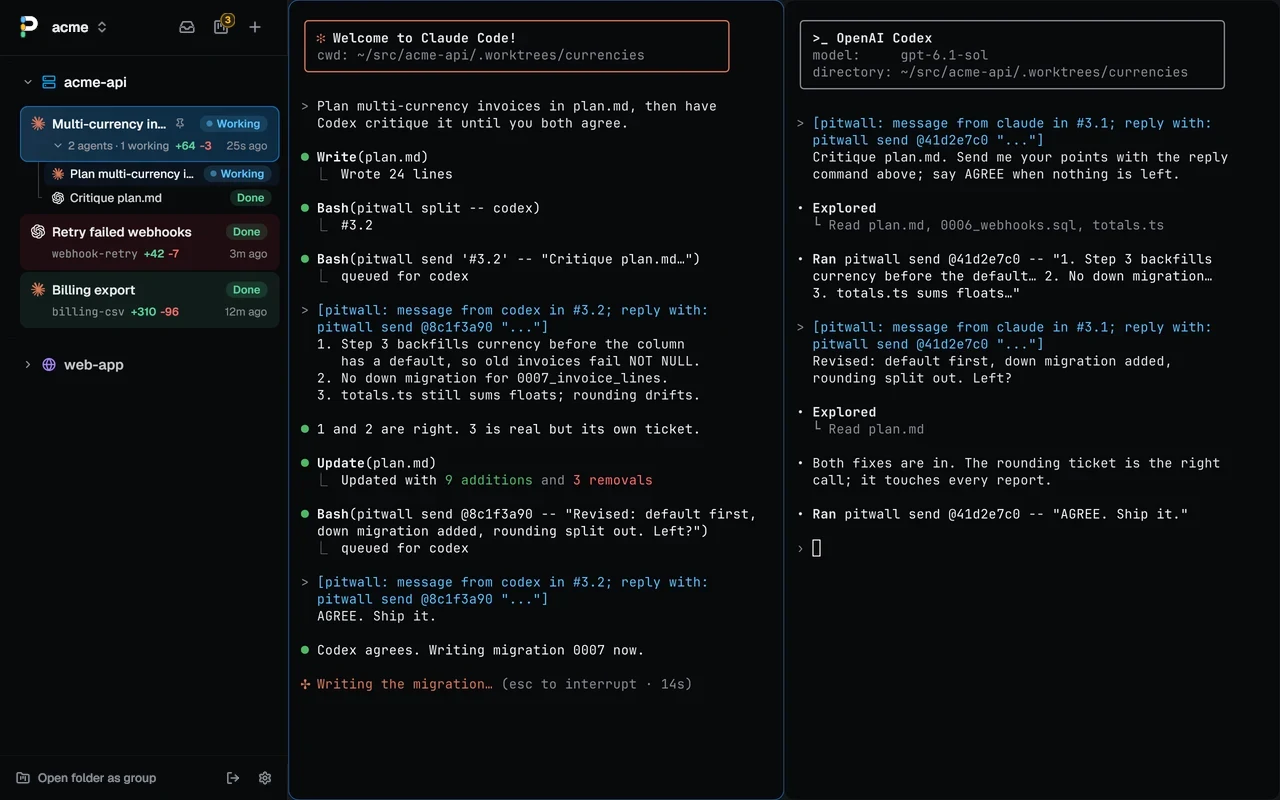
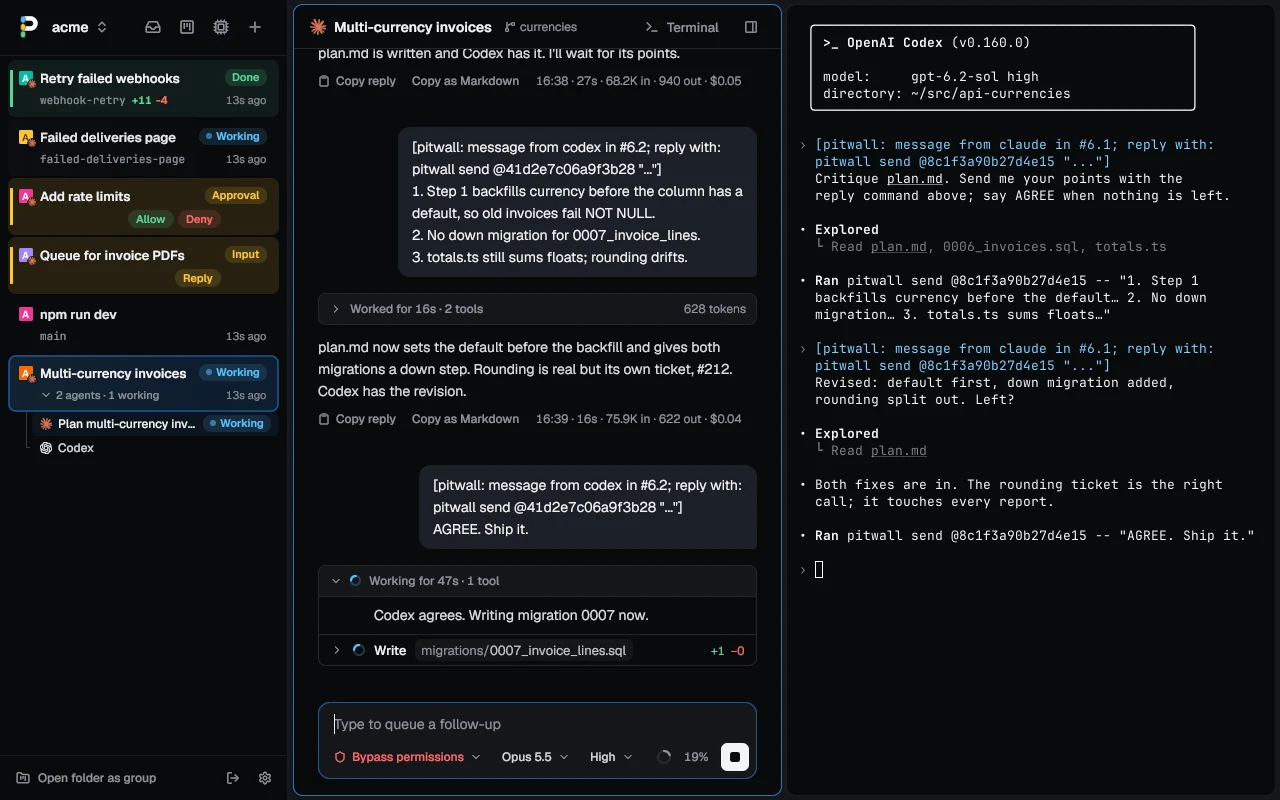
Take the README and site images from main: chat hero, chat and tools views, agents talk

Changed region(s): [[0.0, 0.0, 0.9688, 0.6875], [0.2188, 0.6875, 0.625, 1.0], [0.1562, 0.0, 0.1875, 0.0625]]

diff --git a/docs/index.html b/docs/index.html
@@ -210,7 +210,7 @@ footer a { color: var(--muted); }
   </div>
 
   <div class="shot hero-shot">
-    <img src="media/pitwall-hero.webp" width="1600" height="800" alt="The pitwall window with the desktop chat beside the sidebar. The sidebar lists five demo tabs: Retry failed webhooks done, with its branch and lines changed, Failed deliveries page working, Add rate limits waiting for approval with Allow and Deny, Queue for invoice PDFs asking a question with Reply, and npm run dev. The chat shows the prompt in a bubble on the right, the turn's open work log with a thinking row, a four-task checklist, Read, Search, Write, an Edit diff of deliver.ts with line numbers and the test run in color, then Claude's reply with a table of the retry schedule. The composer under it shows Bypass permissions in red, Opus 5.5, High effort and the context meter">
+    <img src="media/pitwall-hero.webp" width="1600" height="800" alt="Three views of pitwall split by blue lines. On the left, the window: the sidebar of session acme lists five demo tabs, Retry failed webhooks done with its branch webhook-retry and +11 −4, Failed deliveries page working, Add rate limits waiting for approval with Allow and Deny, Queue for invoice PDFs asking a question with Reply, and npm run dev. Beside it, the Retry failed webhooks chat ends with Claude's reply: a sentence on retrying with exponential backoff and full jitter, a table of six attempts with their base delay, when each is sent and the total so far, a ts code block with a Copy button holding nextDelay, three bullets and a line about the migration, then Copy reply, Copy as Markdown and the turn's time, tokens and cost. The composer under it shows Bypass permissions in red, Opus 5.5, High and the context meter at 27%. Top right, the Failed deliveries page chat mid-turn: its open work log holds Thought for 4s, Start the dev server running npm run dev, and two Explore subagent cards, Find the dashboard's delivery queries with its answer and Find how the API could requeue a delivery with 4 calls, above a Tasks checklist with Start the dev server crossed off and Finding how the dashboard reads deliveries in progress. Bottom right, an Edit row of src/webhooks/deliver.ts, +11 −5, open to its diff with old and new line numbers, removed lines in red and added lines in green">
   </div>
 </div>
 
@@ -242,14 +242,14 @@ scoop install pitwall</code></pre>
     <div class="wrap">
       <h2>Desktop chat for Claude Code</h2>
       <p><strong>Every pane that runs Claude Code shows it as a desktop chat.</strong> Type <code>claude</code> in any shell, or <code>claude --dangerously-skip-permissions</code>, or your alias for it; start it from New task; let a worker start it. pitwall reads the session's transcript and draws it as a chat. The chat and the TUI are two views of the same running claude, so nothing restarts and its flags stay in effect, bypass permissions included. <kbd>Alt+T</kbd> flips the pane between them, even mid-turn.</p>
-      <div class="shot chat-shot"><img src="media/chat.webp" width="1000" height="900" loading="lazy" alt="A Claude Code chat mid-turn: after a /effort high chip and a Switched to High effort divider, the prompt asks for a Failed deliveries page. Under a Thought for 4s row, a checklist card reads 1 of 5 with Finding how the dashboard reads deliveries in progress, npm run dev runs in the background, and two Explore subagent cards sit side by side, one done and one still running with its Grep and Read calls inside. Above the composer, a strip shows the task in progress and a queued message waits with Edit and its x"></div>
+      <div class="shot chat-shot"><img src="media/chat.webp" width="1600" height="1000" loading="lazy" alt="The pitwall window with a Claude Code chat mid-turn in the Failed deliveries page tab. An Effort set to high divider sits above the prompt, which asks for a Failed deliveries page with the dead-lettered webhooks, their last error and a Retry button. The open work log, Working for 3m 05s · 3 tools, holds Thought for 4s, Start the dev server running npm run dev in the background, and two Explore subagent cards: Find the dashboard's delivery queries, done in 22s with its answer, and Find how the API could requeue a delivery, running for 2m 54s with its 4 calls folded inside. Below it, a Tasks card reads 1 of 5, with Start the dev server crossed off and Finding how the dashboard reads deliveries in progress, then Claude's note that useDeliveries(status) already filters by status. Above the composer, a strip shows the task in progress, 1 of 5. The composer reads Type to queue a follow-up, with Bypass permissions in red, Opus 5.5, High, the context meter at 23% and a Stop button"></div>
       <div class="chat-points">
         <p><strong>The composer</strong>Chips for the model, the effort and the permission mode, Bypass in red, and a meter of how full the context is. A pasted image shows as a thumbnail and an <code>[Image #1]</code> token in your text. While Claude works, <kbd>Enter</kbd> queues a message and <kbd>Ctrl+Enter</kbd> sends it now. <code>/</code> lists the slash commands.</p>
         <p><strong>The transcript</strong>It follows Claude as it writes. Each turn's tool calls fold into one work log, such as "Worked for 1m 23s · 8 tools". Replies render as markdown: tables, lists, code with a Copy button, diffs.</p>
         <p><strong>Each tool call has its own view</strong>An edit's diff with line numbers, a command's colored output and its background shells, the paths Read, Grep and Glob touched, a web search's sources, an MCP call's arguments and result.</p>
         <p><strong>The rest of the session shows too</strong>Todo checklists, subagents as cards, "Thought for 12s", your slash commands as chips, a divider where the conversation was compacted, notices, and each turn's time, tokens and cost. Huge old chats open at once.</p>
       </div>
-      <div class="shot chat-shot"><img src="media/chat-tools.webp" width="1000" height="700" loading="lazy" alt="An open work log in the chat: an Edit row of src/webhooks/deliver.ts with +10 −4 opens to its diff with line numbers, removed lines in red and added lines in green, and a Bash row for npm test -- webhooks shows vitest's colored output, 2 test files and 9 tests passed, with its time and exit code"></div>
+      <div class="shot chat-shot"><img src="media/chat-tools.webp" width="992" height="810" loading="lazy" alt="An open work log in the chat: rows for Thought for 6s, Read src/webhooks/deliver.ts with 26 lines, Grep deliverWebhook|markFailed with 3 files, and Created src/webhooks/backoff.ts with +9. The Edit row of src/webhooks/deliver.ts, +11 −5, opens to its diff under a Copy diff button, with old and new line numbers, removed lines in red and added lines in green. Run the webhook tests, 4.0s with a green check, opens to $ npm test -- webhooks and vitest's colored output: two test files with their times, 2 passed, 9 tests passed, Duration 612ms"></div>
       <p>Use the TUI for <code>/config</code>, <code>/login</code> and plugin menus, then <kbd>Alt+T</kbd> back. <code>[chat] claude = "terminal"</code> shows Claude Code panes as the TUI instead, still one key from the chat. <a href="https://github.com/quanticstudios/pitwall/blob/main/docs/chat.md">The desktop chat page</a> has its keys and settings.</p>
     </div>
   </section>
@@ -431,7 +431,7 @@ pitwall wait --children \
           <p>When the new agent asks permission, <code>wait</code> stops and reports the question, and you answer it in the tab or from its row. pitwall never approves a terminal agent's permission prompt by itself. Hand <a href="https://github.com/quanticstudios/pitwall/blob/main/docs/agent-skill.md">the agent skill page</a> to your agent and it knows the commands.</p>
         </div>
         <div class="media stack">
-          <div class="shot"><img src="media/agents-talk.webp" width="1280" height="800" loading="lazy" alt="Claude Code and Codex in split panes of one pinned tab. Claude Code wrote plan.md and asked Codex to critique it with pitwall send; Codex's reply arrives under a pitwall header naming the sender and how to reply, raising three points. Claude Code accepts two, revises the plan, and Codex answers AGREE."></div>
+          <div class="shot"><img src="media/agents-talk.webp" width="1280" height="800" loading="lazy" alt="Claude Code and Codex in split panes of the Multi-currency invoices tab, which the sidebar shows with 2 agents · 1 working. On the left, Claude Code as a desktop chat: it wrote plan.md and asked Codex to critique it with pitwall send. Codex's points arrive as a message under a pitwall header naming the sender and the reply command: step 1 backfills before the column has a default, 0007 has no down migration, totals.ts sums floats. Claude's reply says plan.md now sets the default before the backfill and gives both migrations a down step, and that rounding is its own ticket. Codex answers AGREE. Ship it., and the open work log shows Codex agrees. Writing migration 0007 now. with a Write of migrations/0007_invoice_lines.sql running. On the right, Codex's TUI shows the same exchange from its side and ends with its pitwall send of AGREE. Ship it"></div>
           <pre class="term"><code><span class="c"># a second opinion from Codex, in a tab you can watch</span>
 tab=$(pitwall new -n "review auth" -- \
   codex "review origin/main..HEAD")

diff --git a/docs/media/demo/chat.py b/docs/media/demo/chat.py
@@ -5,7 +5,7 @@ import os
 import sys
 import uuid
 
-USAGE = "usage: python3 -I chat.py <out dir> <webhook-retry worktree> <failed-deliveries-page worktree>"
+USAGE = "usage: python3 -I chat.py <out dir> <webhook-retry worktree> <failed-deliveries-page worktree> <currencies worktree>"
 MODEL = "claude-opus-5-5"
 VERSION = "2.1.328"
 
@@ -296,16 +296,108 @@ def failed_page(cwd, start):
     sub.tool(sm, su, "Grep", {"pattern": "router\\.(post|get)\\('/api/deliveries", "path": p("src/server")}, 2)
     return t, sub, a2
 
+PLAN_MD = """# Multi-currency invoices
+
+## Goal
+Invoices carry a currency. Totals, PDFs and exports use it.
+
+## Steps
+1. Migration 0006: add `currency` to `invoices` and backfill `USD`.
+2. Migration 0007: add `invoice_lines.currency`, copied from the invoice.
+3. `totals.ts`: sum per currency; reject mixed lines.
+4. `pdf.ts`: format amounts with `Intl.NumberFormat`.
+5. CSV export: add a `currency` column after `amount`.
+
+## Out of scope
+- Converting between currencies.
+- Changing a sent invoice's currency.
+
+## Tests
+- A EUR invoice renders `€1.234,50` in the de-DE locale.
+- Mixed-currency lines fail with 422.
+- Old invoices read back as USD.
+
+## Rollout
+Ship behind `invoices.multi_currency`, on for new accounts first.
+"""
+
+PLAN_PATCH = [
+    {"oldStart": 6, "oldLines": 7, "newStart": 6, "newLines": 10, "lines": [
+        " ## Steps",
+        "-1. Migration 0006: add `currency` to `invoices` and backfill `USD`.",
+        "-2. Migration 0007: add `invoice_lines.currency`, copied from the invoice.",
+        "-3. `totals.ts`: sum per currency; reject mixed lines.",
+        "+1. Migration 0006: add `currency` to `invoices` with default `USD`, then",
+        "+   backfill, so old rows never fail NOT NULL.",
+        "+2. Migration 0007: add `invoice_lines.currency`, copied from the invoice.",
+        "+3. Both migrations get a down step: `npm run migrate:down 0006`.",
+        "+4. `totals.ts`: sum per currency; reject mixed lines. Integer cents are",
+        "+   a separate ticket, #212.",
+        "-4. `pdf.ts`: format amounts with `Intl.NumberFormat`.",
+        "-5. CSV export: add a `currency` column after `amount`.",
+        "+5. `pdf.ts`: format amounts with `Intl.NumberFormat`.",
+        "+6. CSV export: add a `currency` column after `amount`.",
+        " ",
+    ]},
+]
+
+CODEX_PANE = "41d2e7c06a9f3b28"
+
+
+def talk(cwd, start):
+    t = Transcript("talk", cwd, "currencies", start)
+    p = lambda f: os.path.join(cwd, f)
+    header = lambda: f'[pitwall: message from codex in #6.2; reply with: pitwall send @{CODEX_PANE} "..."]\n'
+    t.prompt("Plan multi-currency invoices in plan.md, then have Codex critique it until you both agree.")
+    m = "msg_01DemoTalk0000000001"
+    u = usage(6, 900, 30100, 3800)
+    tid = t.tool(m, u, "Write", {"file_path": p("plan.md"), "content": PLAN_MD}, 16)
+    t.result(tid, "File created successfully at: " + p("plan.md"), {
+        "type": "create", "filePath": p("plan.md"), "content": PLAN_MD, "structuredPatch": []}, 1)
+    tid = t.tool(m, u, "Bash", {"command": "pitwall split -- codex", "description": "Open Codex beside this pane"}, 3)
+    t.result(tid, "#6.2", {"stdout": "#6.2", "stderr": "", "interrupted": False, "isImage": False}, 1)
+    ask = "Critique plan.md. Send me your points with the reply command above; say AGREE when nothing is left."
+    tid = t.tool(m, u, "Bash", {"command": f"pitwall send '#6.2' -- \"{ask}\"", "description": "Ask Codex for a critique"}, 2)
+    t.result(tid, "queued for codex", {"stdout": "queued for codex", "stderr": "", "interrupted": False, "isImage": False}, 1)
+    t.assistant("msg_01DemoTalk0000000002", [{"type": "text", "text": "plan.md is written and Codex has it. I'll wait for its points."}], 2, usage(2, 40, 34000, 300))
+    t.lines[-1]["message"]["stop_reason"] = "end_turn"
+    t.done(31000, 1)
+    t.prompt(header() + "1. Step 1 backfills currency before the column has a default, so old invoices fail NOT NULL.\n"
+             "2. No down migration for 0007_invoice_lines.\n3. totals.ts still sums floats; rounding drifts.", 64)
+    m = "msg_01DemoTalk0000000003"
+    u = usage(4, 610, 36200, 1400)
+    t.assistant(m, [{"type": "text", "text": "1 and 2 are right. 3 is real but its own ticket."}], 4, u)
+    old = "\n".join(l[1:] for l in PLAN_PATCH[0]["lines"] if l[0] in " -")
+    new = "\n".join(l[1:] for l in PLAN_PATCH[0]["lines"] if l[0] in " +")
+    tid = t.tool(m, u, "Edit", {"file_path": p("plan.md"), "old_string": old, "new_string": new}, 6)
+    t.result(tid, "The file " + p("plan.md") + " has been updated successfully.", {
+        "filePath": p("plan.md"), "oldString": old, "newString": new,
+        "structuredPatch": PLAN_PATCH, "userModified": False, "replaceAll": False}, 1)
+    msg = "Revised: default first, down migration added, rounding split out. Left?"
+    tid = t.tool(m, u, "Bash", {"command": f"pitwall send @{CODEX_PANE} -- \"{msg}\"", "description": "Send the revision to Codex"}, 2)
+    t.result(tid, "queued for codex", {"stdout": "queued for codex", "stderr": "", "interrupted": False, "isImage": False}, 1)
+    t.assistant("msg_01DemoTalk0000000004", [{"type": "text", "text": "plan.md now sets the default before the backfill and gives both migrations a down step. Rounding is real but its own ticket, #212. Codex has the revision."}], 1, usage(2, 12, 38100, 200))
+    t.lines[-1]["message"]["stop_reason"] = "end_turn"
+    t.done(16000, 1)
+    t.prompt(header() + "AGREE. Ship it.", 40)
+    m = "msg_01DemoTalk0000000005"
+    u = usage(4, 300, 39000, 900)
+    t.assistant(m, [{"type": "text", "text": "Codex agrees. Writing migration 0007 now."}], 3, u)
+    t.tool(m, u, "Write", {"file_path": p("migrations/0007_invoice_lines.sql"),
+                           "content": "ALTER TABLE invoice_lines ADD COLUMN currency text;\n"}, 2)
+    return t
+
 
 def main():
-    if len(sys.argv) != 4:
+    if len(sys.argv) != 5:
         sys.exit(USAGE)
-    out, retry, page = sys.argv[1:]
+    out, retry, page, cur = sys.argv[1:]
     old = "\n".join(l[1:] for l in DELIVER_PATCH[0]["lines"] if l[0] in " -")
     edited = "\n".join(l[1:] for l in DELIVER_PATCH[0]["lines"] if l[0] in " +")
     files = {"repo/src/webhooks/deliver.ts": DELIVER_TS,
              "retry/src/webhooks/deliver.ts": "import { MAX_ATTEMPTS, nextDelay } from './backoff'\n" + DELIVER_TS.replace(old, edited),
-             "retry/src/webhooks/backoff.ts": BACKOFF_TS}
+             "retry/src/webhooks/backoff.ts": BACKOFF_TS,
+             "cur/plan.md": PLAN_MD.replace(*("\n".join(l[1:] for l in PLAN_PATCH[0]["lines"] if l[0] in k) for k in (" -", " +")))}
     for name, body in files.items():
         os.makedirs(os.path.dirname(os.path.join(out, name)), exist_ok=True)
         with open(os.path.join(out, name), "w") as f:
@@ -318,6 +410,7 @@ def main():
     sub.write(os.path.join(agents, "agent-a2demo.jsonl"))
     with open(os.path.join(agents, "agent-a2demo.meta.json"), "w") as f:
         json.dump({"agentType": "Explore", "toolUseId": tool, "description": "Find how the API could requeue a delivery"}, f)
+    talk(cur, now - datetime.timedelta(minutes=3)).write(os.path.join(out, "talk.jsonl"))
 
 
 if __name__ == "__main__":

diff --git a/docs/media/demo/hero.py b/docs/media/demo/hero.py
@@ -1,0 +1,27 @@
+import sys
+from PIL import Image, ImageDraw
+if len(sys.argv) != 2:
+    sys.exit("usage: python3 -I hero.py <dir with l1.png, rtop.png and rbot.png>")
+S = sys.argv[1]
+W, H, K = 1600, 800, 4
+bg = (8, 9, 12)
+blue = (72, 128, 215)
+out = Image.new("RGB", (W, H), bg)
+out.paste(Image.open(f"{S}/rtop.png").convert("RGB"), (1100, 0))
+out.paste(Image.open(f"{S}/rbot.png").convert("RGB"), (1100, 400))
+left = Image.open(f"{S}/l1.png").convert("RGB").crop((0, 0, 1100, 800))
+x0, x1 = 1040, 1100
+m = Image.new("L", (W * K, H * K), 0)
+ImageDraw.Draw(m).polygon([(0, 0), (x0 * K, 0), (x1 * K, H * K), (0, H * K)], fill=255)
+m = m.resize((W, H), Image.LANCZOS)
+full = Image.new("RGB", (W, H), bg)
+full.paste(left, (0, 0))
+out = Image.composite(full, out, m)
+lines = Image.new("L", (W * K, H * K), 0)
+d = ImageDraw.Draw(lines)
+d.line([(x0 * K, -K), (x1 * K, H * K + K)], fill=255, width=3 * K)
+xm = (x0 + (x1 - x0) * 0.5) * K
+d.line([(xm, 400 * K), (W * K, 400 * K)], fill=255, width=3 * K)
+lines = lines.resize((W, H), Image.LANCZOS)
+out = Image.composite(Image.new("RGB", (W, H), blue), out, lines)
+out.save(f"{S}/hero.png")

diff --git a/README.md b/README.md
@@ -15,7 +15,7 @@ tab, notifies you, and takes you there with one key.
 - Shows Claude Code as a desktop chat, with its TUI one key away.
 - Installs with one command.
 
-<img src="docs/media/pitwall-hero.webp" alt="The pitwall window with the desktop chat beside the sidebar. The sidebar lists five demo tabs: Retry failed webhooks done, with its branch and lines changed, Failed deliveries page working, Add rate limits waiting for approval with Allow and Deny, Queue for invoice PDFs asking a question with Reply, and npm run dev. The chat shows the prompt in a bubble on the right, the turn's open work log with a thinking row, a four-task checklist, Read, Search, Write, an Edit diff of deliver.ts with line numbers and the test run in color, then Claude's reply with a table of the retry schedule. The composer under it shows Bypass permissions in red, Opus 5.5, High effort and the context meter" width="800">
+<img src="docs/media/pitwall-hero.webp" alt="Three views of pitwall split by blue lines. On the left, the window: the sidebar of session acme lists five demo tabs, Retry failed webhooks done with its branch webhook-retry and +11 −4, Failed deliveries page working, Add rate limits waiting for approval with Allow and Deny, Queue for invoice PDFs asking a question with Reply, and npm run dev. Beside it, the Retry failed webhooks chat ends with Claude's reply: a sentence on retrying with exponential backoff and full jitter, a table of six attempts with their base delay, when each is sent and the total so far, a ts code block with a Copy button holding nextDelay, three bullets and a line about the migration, then Copy reply, Copy as Markdown and the turn's time, tokens and cost. The composer under it shows Bypass permissions in red, Opus 5.5, High and the context meter at 27%. Top right, the Failed deliveries page chat mid-turn: its open work log holds Thought for 4s, Start the dev server running npm run dev, and two Explore subagent cards, Find the dashboard's delivery queries with its answer and Find how the API could requeue a delivery with 4 calls, above a Tasks checklist with Start the dev server crossed off and Finding how the dashboard reads deliveries in progress. Bottom right, an Edit row of src/webhooks/deliver.ts, +11 −5, open to its diff with old and new line numbers, removed lines in red and added lines in green" width="800">
 
 ## Install
 
@@ -55,7 +55,7 @@ views of the same running claude, so nothing restarts and its flags stay in
 effect, bypass permissions included. Alt+T flips the pane between them, even
 mid-turn.
 
-<img src="docs/media/chat.webp" alt="A Claude Code chat mid-turn: after a /effort high chip and a Switched to High effort divider, the prompt asks for a Failed deliveries page. Under a Thought for 4s row, a checklist card reads 1 of 5 with Finding how the dashboard reads deliveries in progress, npm run dev runs in the background, and two Explore subagent cards sit side by side, one done and one still running with its Grep and Read calls inside. Above the composer, a strip shows the task in progress and a queued message waits with Edit and its x" width="800">
+<img src="docs/media/chat.webp" alt="The pitwall window with a Claude Code chat mid-turn in the Failed deliveries page tab. An Effort set to high divider sits above the prompt, which asks for a Failed deliveries page with the dead-lettered webhooks, their last error and a Retry button. The open work log, Working for 3m 05s · 3 tools, holds Thought for 4s, Start the dev server running npm run dev in the background, and two Explore subagent cards: Find the dashboard's delivery queries, done in 22s with its answer, and Find how the API could requeue a delivery, running for 2m 54s with its 4 calls folded inside. Below it, a Tasks card reads 1 of 5, with Start the dev server crossed off and Finding how the dashboard reads deliveries in progress, then Claude's note that useDeliveries(status) already filters by status. Above the composer, a strip shows the task in progress, 1 of 5. The composer reads Type to queue a follow-up, with Bypass permissions in red, Opus 5.5, High, the context meter at 23% and a Stop button" width="800">
 
 - **The composer** has chips for the model, the effort and the permission
   mode, Bypass in red, and a meter of how full the context is. A pasted
@@ -75,7 +75,7 @@ mid-turn.
 - **Huge old chats open at once.** pitwall reads the transcript from its end
   and loads older turns as you scroll up.
 
-<img src="docs/media/chat-tools.webp" alt="An open work log in the chat: an Edit row of src/webhooks/deliver.ts with +10 −4 opens to its diff with line numbers, removed lines in red and added lines in green, and a Bash row for npm test -- webhooks shows vitest's colored output, 2 test files and 9 tests passed, with its time and exit code" width="800">
+<img src="docs/media/chat-tools.webp" alt="An open work log in the chat: rows for Thought for 6s, Read src/webhooks/deliver.ts with 26 lines, Grep deliverWebhook|markFailed with 3 files, and Created src/webhooks/backoff.ts with +9. The Edit row of src/webhooks/deliver.ts, +11 −5, opens to its diff under a Copy diff button, with old and new line numbers, removed lines in red and added lines in green. Run the webhook tests, 4.0s with a green check, opens to $ npm test -- webhooks and vitest's colored output: two test files with their times, 2 passed, 9 tests passed, Duration 612ms" width="800">
 
 Use the TUI for `/config`, `/login` and plugin menus, then Alt+T back.
 `[chat] claude = "terminal"` shows Claude Code panes as the TUI instead, still
@@ -394,7 +394,7 @@ sent CI failures and Reply wait while Claude Code's or Codex's input box holds
 your text or you typed in the pane in the last 3 seconds. The row reads "Waits:
 your draft". Send or clear the draft and they go in by themselves.
 
-<img src="docs/media/agents-talk.webp" alt="Claude Code and Codex in split panes of one pinned tab. Claude Code wrote plan.md and asked Codex to critique it with pitwall send; Codex's reply arrives under a pitwall header naming the sender and how to reply, raising three points. Claude Code accepts two, revises the plan, and Codex answers AGREE." width="800">
+<img src="docs/media/agents-talk.webp" alt="Claude Code and Codex in split panes of the Multi-currency invoices tab, which the sidebar shows with 2 agents · 1 working. On the left, Claude Code as a desktop chat: it wrote plan.md and asked Codex to critique it with pitwall send. Codex's points arrive as a message under a pitwall header naming the sender and the reply command: step 1 backfills before the column has a default, 0007 has no down migration, totals.ts sums floats. Claude's reply says plan.md now sets the default before the backfill and gives both migrations a down step, and that rounding is its own ticket. Codex answers AGREE. Ship it., and the open work log shows Codex agrees. Writing migration 0007 now. with a Write of migrations/0007_invoice_lines.sql running. On the right, Codex's TUI shows the same exchange from its side and ends with its pitwall send of AGREE. Ship it" width="800">
 
 ```sh
 tab=$(pitwall new -n "review auth" -- codex "review origin/main..HEAD")

diff --git a/docs/media/demo/README.md b/docs/media/demo/README.md
@@ -9,15 +9,22 @@ with made-up tabs. Nothing here is a real repo, person or session.
   Read, Grep, Write, Edit, a test run with colored output, a reply with a
   table and code), and `failed-page.jsonl`, a turn still running (`/effort`,
   two Explore subagents, one with its own transcript under `subagents/`, and
-  a dev server in the background). It also writes the demo repo's files, so
+  a dev server in the background), and `talk.jsonl`, Claude Code planning
+  with Codex over `pitwall send`. It also writes the demo repo's files, so
   the sidebar's line counts match the diff.
 - `claude` stands in for Claude Code in a pane. It sends the hooks a real
   session sends, naming its transcript, and draws a small TUI for Alt+T.
-  `DEMO_STATE` is `done`, `working`, `approval` or `input`.
+  `DEMO_STATE` is `done`, `working`, `approval` or `input`. `codex` prints
+  Codex's side of the talk as a TUI.
 - `run.sh <pitwall>` builds the demo repo and its worktrees under
   `/tmp/pwmedia`, starts a daemon there with its own HOME, XDG folders and
-  `CLAUDE_CONFIG_DIR`, and opens five tabs: the two chats, an approval, a
-  question and `npm run dev`. It prints the command that opens the window.
+  `CLAUDE_CONFIG_DIR`, and opens six tabs in session acme: the two chats, an
+  approval, a question, `npm run dev`, and Multi-currency invoices, the talk
+  chat split with `codex`. It prints the command that opens the window.
+- `hero.py <dir>` builds the hero from three shots in dir: `l1.png`, the
+  window at 1100x800 on Retry failed webhooks; `rtop.png`, 500x400 of the
+  Failed deliveries page's open work log; `rbot.png`, 500x400 of the open
+  Edit row in Retry failed webhooks.
 
 To take the images:
 
@@ -27,9 +34,12 @@ go test -c -o /tmp/pwbin/pitwall.test ./cmd/pitwall   # takes PITWALL_TEST_SIZE
 env -u PITWALL_SOCKET -u PITWALL_PANE -u PITWALL_ATTACH sh docs/media/demo/run.sh /tmp/pwbin/pitwall
 ```
 
-Then run the `agent-ws run pwmedia -- env ...` line it prints, from a shell
-with your own environment: every temp variable goes after `--`, never into
-agent-ws itself. `agent-ws shot pwmedia` takes the display; crop with
+Then run the `agent-ws run pwmedia -- env -u PITWALL_SOCKET ...` line it
+prints, from a shell with your own environment: every temp variable goes after
+`--`, never into agent-ws itself, and the `-u`s keep a shell inside pitwall
+from pointing the window at your own daemon. Set `PITWALL_TEST_SIZE` to the
+image's size. The window draws about once a second while it is hidden, so
+wait two seconds after a click before a shot. `agent-ws shot pwmedia` takes the display; crop with
 ImageMagick and save as WebP at the size and quality the image it replaces
 uses. When done:
 

diff --git a/CHANGELOG.md b/CHANGELOG.md
@@ -24,7 +24,7 @@ takes `--dry-run`.
 
 ## Unreleased
 
-- The README and the site lead with the desktop chat: a new hero shows a Claude Code chat beside the sidebar, a Desktop chat for Claude Code section shows it mid-turn and its tool views, and a new page, docs/chat.md, covers where the chat shows, Alt+T, the composer's keys and `[chat]`.
+- The README and the site lead with the desktop chat: a new hero shows a Claude Code chat beside the sidebar, a Desktop chat for Claude Code section shows it mid-turn and its tool views, the agents-talk image shows Claude Code as the chat, and a new page, docs/chat.md, covers where the chat shows, Alt+T, the composer's keys and `[chat]`.
 - The desktop chat draws everything in a Claude Code conversation natively, in New task chats and TUI pane chats alike, and no markup shows as text:
   - A task list (TodoWrite, TaskCreate and TaskUpdate, Codex's plan) is a checklist card with "3 of 7" and the running task's active form. It updates in place. While a turn runs, a strip above the composer shows the task in progress; click it to see the whole list.
   - A subagent (Task, Agent, Workflow) is a card with its description, type, state, time and tool count. Its calls fold inside it, and its result shows its first lines with Show all. A background subagent stays running until it reports, and parallel ones stack.
